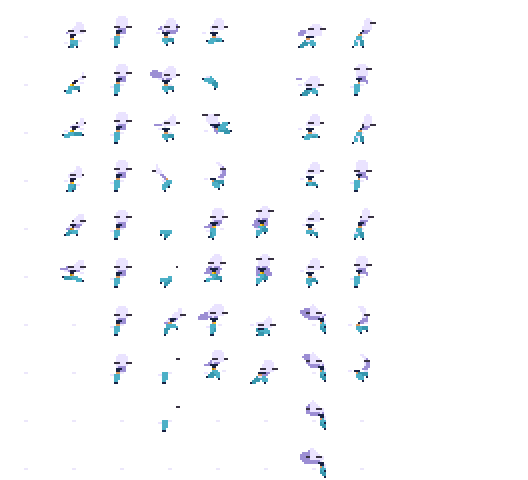
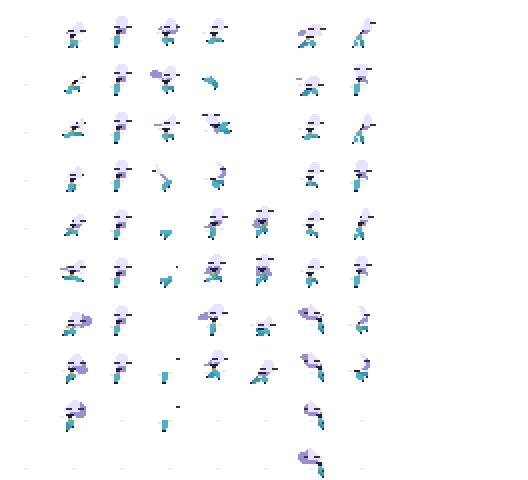
fine tune sharp turn

diff --git a/src/entities/player/Player.cpp b/src/entities/player/Player.cpp
@@ -136,17 +136,6 @@ void Player::render(automa::ServiceProvider& svc, sf::RenderWindow& win, sf::Vec
 	sprite.setOrigin(asset::NANI_SPRITE_WIDTH / 2, asset::NANI_SPRITE_WIDTH / 2);
 	sprite.setPosition(sprite_position.x - campos.x, sprite_position.y - campos.y);
 
-	// flip the sprite based on the player's direction
-	sf::Vector2<float> right_scale = {1.0f, 1.0f};
-	sf::Vector2<float> left_scale = {-1.0f, 1.0f};
-	if (controller.facing_left() && sprite.getScale() == right_scale) {
-		sprite.scale(-1.0f, 1.0f);
-		if (grounded()) { animation.state.set(AnimState::turn); }
-	}
-	if (controller.facing_right() && sprite.getScale() == left_scale) {
-		sprite.scale(-1.0f, 1.0f);
-		if (grounded()) { animation.state.set(AnimState::turn); }
-	}
 	if (flags.state.test(State::alive)) {
 		if (svc.greyblock_mode()) {
 			collider.render(win, campos);
@@ -185,7 +174,7 @@ void Player::update_animation() {
 			if (controller.moving() && !controller.dashing() && !controller.sprinting()) { animation.state.set(AnimState::run); }
 			if (controller.moving() && controller.sprinting() && !controller.dashing() && !animation.state.test(AnimState::sharp_turn)) { animation.state.set(AnimState::sprint); }
 			if (abs(collider.physics.velocity.x) > animation.stop_threshold) { animation.state.test(AnimState::stop); }
-			if (controller.moving_right() && collider.physics.velocity.x < -3.8f || controller.moving_left() && collider.physics.velocity.x > 3.8f) {
+			if (quick_direction_switch()) {
 				animation.state = {};
 				animation.state.set(AnimState::sharp_turn);
 			}
@@ -216,6 +205,22 @@ void Player::update_animation() {
 }
 
 void Player::update_sprite() {
+	// flip the sprite based on the player's direction
+	sf::Vector2<float> right_scale = {1.0f, 1.0f};
+	sf::Vector2<float> left_scale = {-1.0f, 1.0f};
+	if (controller.facing_left() && sprite.getScale() == right_scale) {
+		sprite.scale(-1.0f, 1.0f);
+		if (grounded()) { animation.state.set(AnimState::turn); }
+	}
+	if (controller.facing_right() && sprite.getScale() == left_scale) {
+		sprite.scale(-1.0f, 1.0f);
+		if (grounded()) { animation.state.set(AnimState::turn); }
+	}
+
+	// check for quick turn
+	flags.state.reset(State::dir_switch);
+	if (controller.quick_turn()) { flags.state.set(State::dir_switch); }
+
 	sprite.setTexture(texture_updater.get_dynamic_texture());
 }
 

diff --git a/src/entities/player/PlayerController.hpp b/src/entities/player/PlayerController.hpp
@@ -3,6 +3,7 @@
 #include <chrono>
 #include <optional>
 #include <unordered_map>
+#include <deque>
 #include "../../utils/BitFlags.hpp"
 #include "../../utils/Direction.hpp"
 #include "Jump.hpp"
@@ -15,6 +16,7 @@ struct ServiceProvider;
 namespace player {
 
 constexpr static int dash_time{32};
+constexpr static int quick_turn_sample_size{16};
 
 enum class ControllerInput { move_x, jump, sprint, shoot, arms_switch, inspect, dash, move_y };
 enum class TransponderInput { skip, next, exit, down, up, left, right, select, skip_released };
@@ -89,6 +91,17 @@ class PlayerController {
 	[[nodiscard]] auto horizontal_movement() -> float { return key_map[ControllerInput::move_x]; }
 	[[nodiscard]] auto arms_switch() -> float { return key_map[ControllerInput::arms_switch]; }
 	[[nodiscard]] auto dash_value() -> float { return key_map[ControllerInput::dash]; }
+	[[nodiscard]] auto quick_turn() const -> bool {
+		bool ret{};
+		bool left{};
+		bool right{};
+		for (auto& state : horizontal_inputs) {
+			if (state == -1.f) { left = true; }
+			if (state == 1.f) { right = true; }
+		}
+		if (left && right) { ret = true; }
+		return ret;
+	}
 
 	[[nodiscard]] auto get_jump() -> Jump& { return jump; }
 	[[nodiscard]] auto get_wallslide() -> Wallslide& { return wallslide; }
@@ -106,5 +119,7 @@ class PlayerController {
 
 	int dash_request{};
 	int dash_count{};
+
+	std::deque<float> horizontal_inputs{};
 };
 } // namespace player

diff --git a/src/entities/player/Player.hpp b/src/entities/player/Player.hpp
@@ -78,7 +78,7 @@ struct Counters {
 	int invincibility{};
 };
 
-enum class State { alive };
+enum class State { alive, dir_switch };
 
 struct PlayerFlags {
 	util::BitFlags<State> state{};
@@ -107,6 +107,7 @@ class Player {
 	[[nodiscard]] auto is_dead() const -> bool { return flags.state.test(player::State::alive); }
 	[[nodiscard]] auto height() const -> float { return collider.dimensions.y; }
 	[[nodiscard]] auto width() const -> float { return collider.dimensions.x; }
+	[[nodiscard]] auto quick_direction_switch() const -> bool { return flags.state.test(State::dir_switch); }
 
 	// moves
 	void jump();

diff --git a/src/entities/player/PlayerAnimation.hpp b/src/entities/player/PlayerAnimation.hpp
@@ -15,7 +15,7 @@ enum class AnimState { idle, turn, sharp_turn, run, sprint, jumpsquat, rise, sus
 // { lookup, duration, framerate, num_loops (-1 for infinite) }
 inline anim::Parameters idle{20, 8, 28, -1};
 inline anim::Parameters turn{33, 3, 18, 0};
-inline anim::Parameters sharp_turn{36, 1, 48, 0};
+inline anim::Parameters sharp_turn{16, 2, 28, 0};
 inline anim::Parameters run{44, 4, 28, -1};
 inline anim::Parameters sprint{10, 6, 16, -1};
 inline anim::Parameters jumpsquat{61, 1, 16, 0};

diff --git a/src/entities/player/PlayerController.cpp b/src/entities/player/PlayerController.cpp
@@ -54,6 +54,8 @@ void PlayerController::update(automa::ServiceProvider& svc) {
 
 	auto const& hook_held = svc.controller_map.label_to_control.at("secondary_action").held();
 
+	horizontal_inputs.push_back(key_map[ControllerInput::move_x]);
+	if (horizontal_inputs.size() > quick_turn_sample_size) { horizontal_inputs.pop_front(); }
 
 	if (svc.controller_map.type == config::ControllerType::gamepad) {
 		key_map[ControllerInput::move_x] = svc.controller_map.get_throttle().x;
